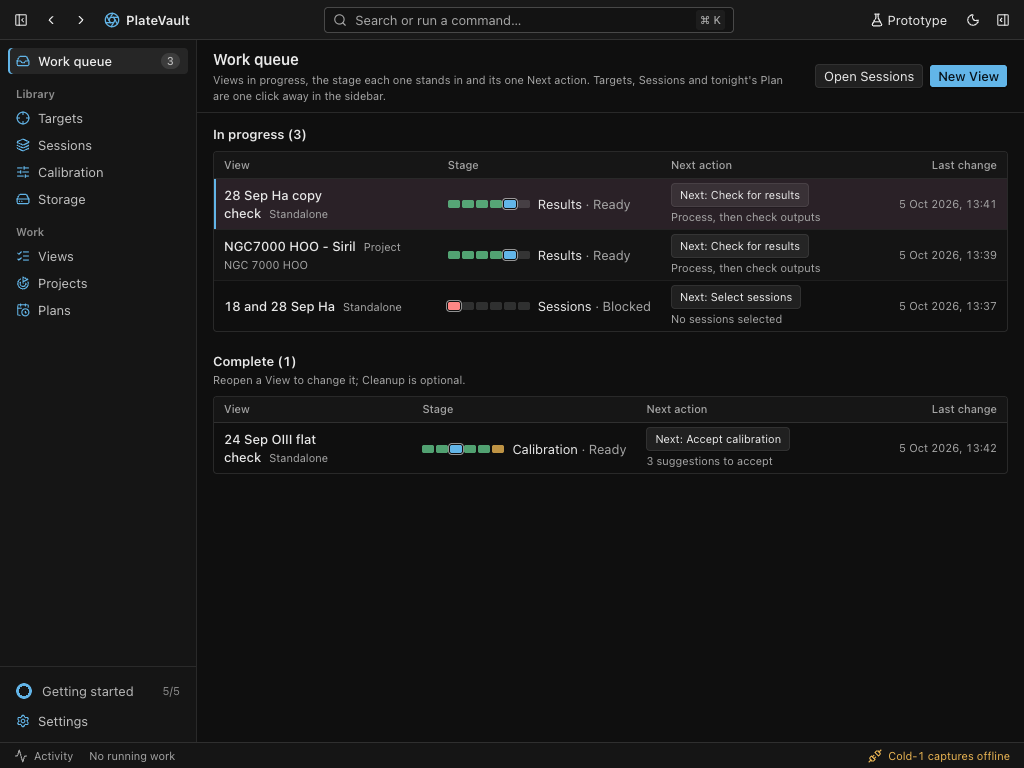
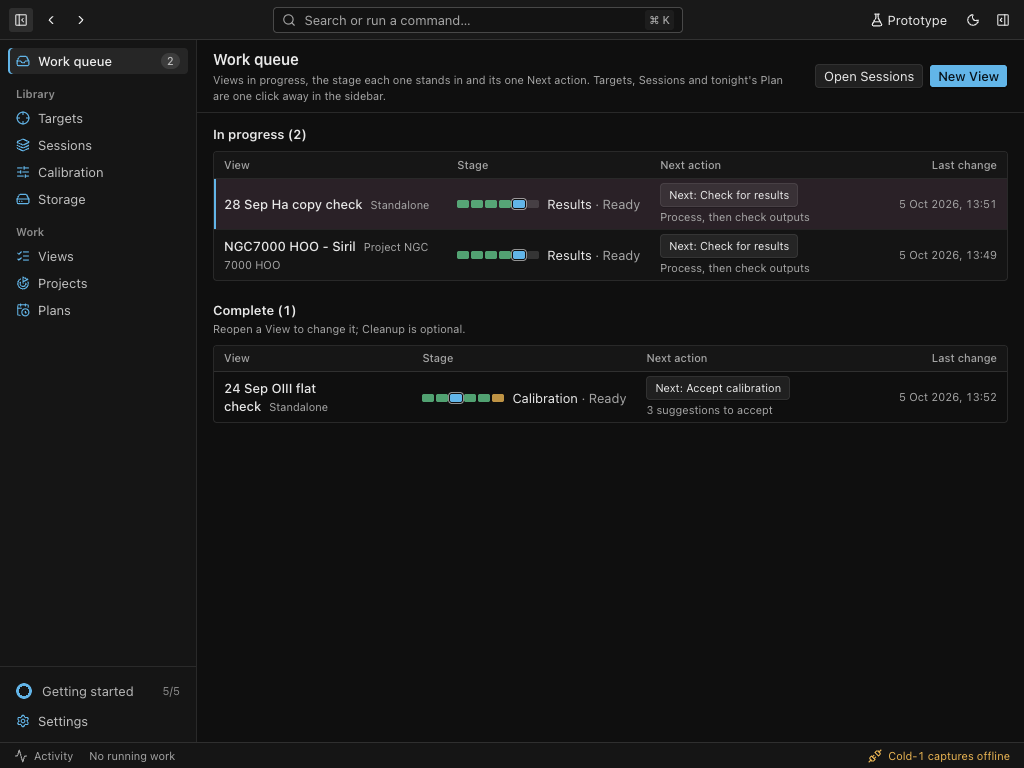
fix(prototype): harness v3 toolbar draws no title-bar stand-in (app mark removed; native Tauri window owns the title); doc notes IA pause

diff --git a/apps/prototype/src/app/shell.tsx b/apps/prototype/src/app/shell.tsx
@@ -511,7 +511,7 @@ function registerToggleSlot(element: HTMLElement | null) {
   for (const listener of toggleListeners) listener()
 }
 
-/** Unified title bar + toolbar: navigation on the leading edge, the command field centred, window controls trailing. */
+/** App toolbar under the native (Tauri) title bar: navigation on the leading edge, the command field centred, pane toggles trailing. It draws no window chrome or title. */
 function Toolbar({ narrow }: { narrow: boolean }) {
   const { sidebarCollapsed } = useShellUi()
   const router = useRouter()
@@ -538,10 +538,6 @@ function Toolbar({ narrow }: { narrow: boolean }) {
       <Button variant="ghost" size="icon" aria-label="Forward" onClick={() => router.history.forward()}>
         <ChevronRight aria-hidden="true" />
       </Button>
-      <div className={cn("flex items-center gap-1.5 px-1.5", narrow && "sr-only")}>
-        <Aperture aria-hidden="true" className="size-4 text-primary" />
-        <span className="text-sm font-semibold">PlateVault</span>
-      </div>
       <div className="flex min-w-0 flex-1 justify-center">
         <PaletteTrigger narrow={narrow} />
       </div>

diff --git a/apps/prototype/src/index.css b/apps/prototype/src/index.css
@@ -123,7 +123,7 @@
   --sidebar-accent-foreground: oklch(0.18 0 0);
   --sidebar-border: oklch(0.88 0 0);
   --sidebar-ring: oklch(0.5 0.13 242);
-  /* Window chrome: unified title bar + toolbar, status bar, inspector pane. */
+  /* App chrome: toolbar, status bar, inspector pane (the native window draws its own title bar). */
   --toolbar: oklch(0.965 0 0);
   --statusbar: oklch(0.955 0 0);
   --pane: oklch(0.975 0 0);

diff --git a/apps/prototype/design/HARNESS-V3.md b/apps/prototype/design/HARNESS-V3.md
@@ -7,12 +7,15 @@ the Work queue instead of redirecting to `/targets`.
 
 ## 1. Premise
 
-Direction E's strongest idea, made robust: the app is one desktop **window**
-with **panes**, not a scrolling web page.
+Direction E's strongest idea, made robust: the app fills one native desktop
+**window** with **panes**, not a scrolling web page. The window itself, its
+title bar and controls, come from Tauri; the harness draws no OS chrome
+(no traffic lights, title-bar stand-in or window frame).
 
-- A unified **toolbar** (40 px): sidebar toggle, Back/Forward, the app mark,
-  the centred **command field** ("Search or run a command… ⌘K", the main verb
-  surface), Prototype, theme, and the inspector toggle (⌥⌘I).
+- An app **toolbar** (40 px) under the native title bar: sidebar toggle,
+  Back/Forward, the centred **command field** ("Search or run a command… ⌘K",
+  the main verb surface), Prototype, theme, and the inspector toggle (⌥⌘I).
+  It carries no app name or mark: the native title shows that.
 - A resizable **source list** on the leading edge (168–300 px, keyboard
   resizable, Enter/double-click collapses to a 48 px icon rail).
 - **Document tabs** over the main pane: each opened record (Target, Session,
@@ -141,3 +144,8 @@ primitives but did not get their bespoke treatment yet:
   journeys' wording ("the Target page shows…") still holds.
 - Command palette: restyle and context verbs (Next action, stage jumps) not added.
 - The J18 tour copy still says "Your library starts here" on its Targets stop.
+
+Paused by user direction (2026-10-06): the IA and workflow are being
+re-architected (Project → Plan → View pipeline, one main workflow page), so
+no further structural work (pages, navigation, start page) lands here. The
+tokens, primitives and surface treatments above carry into that round.
